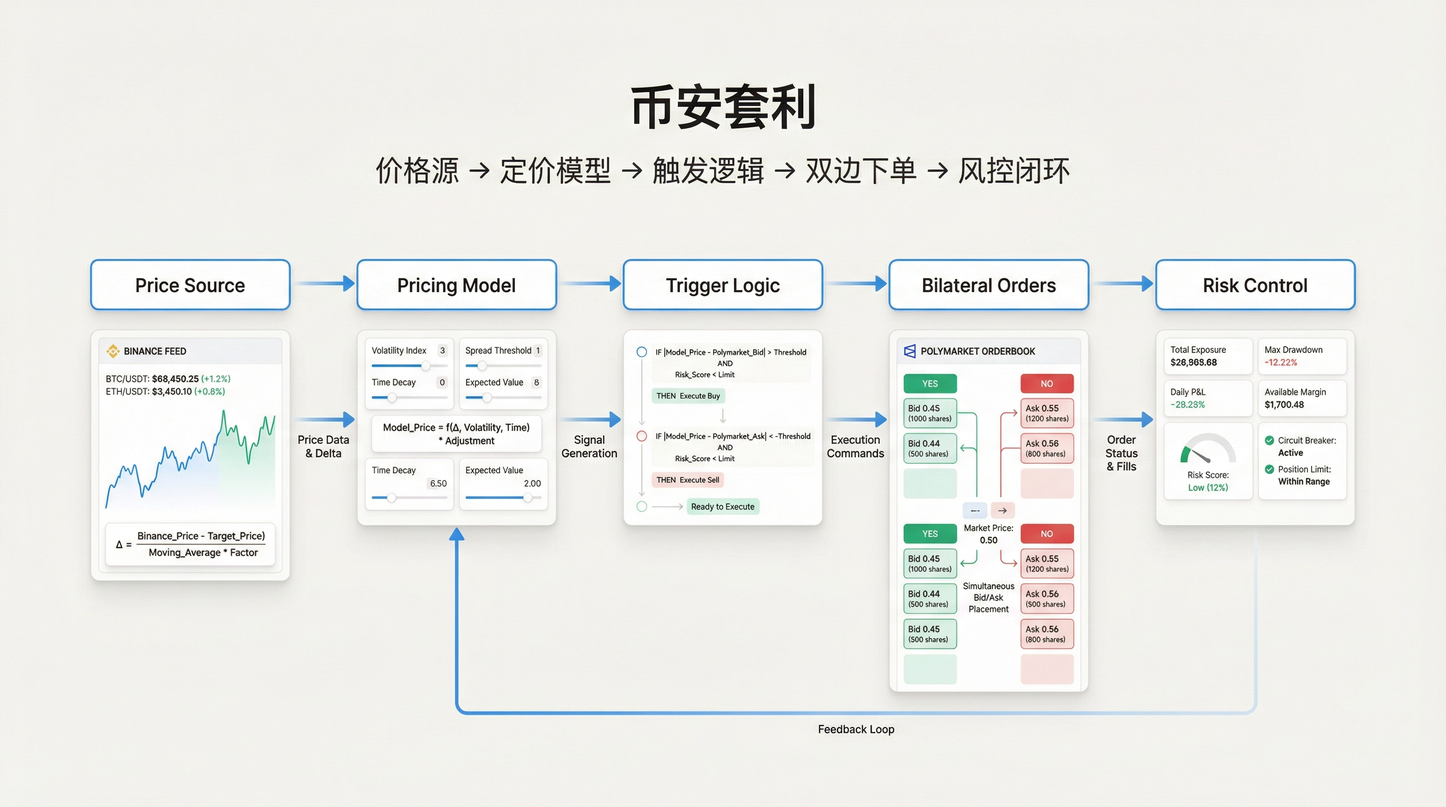
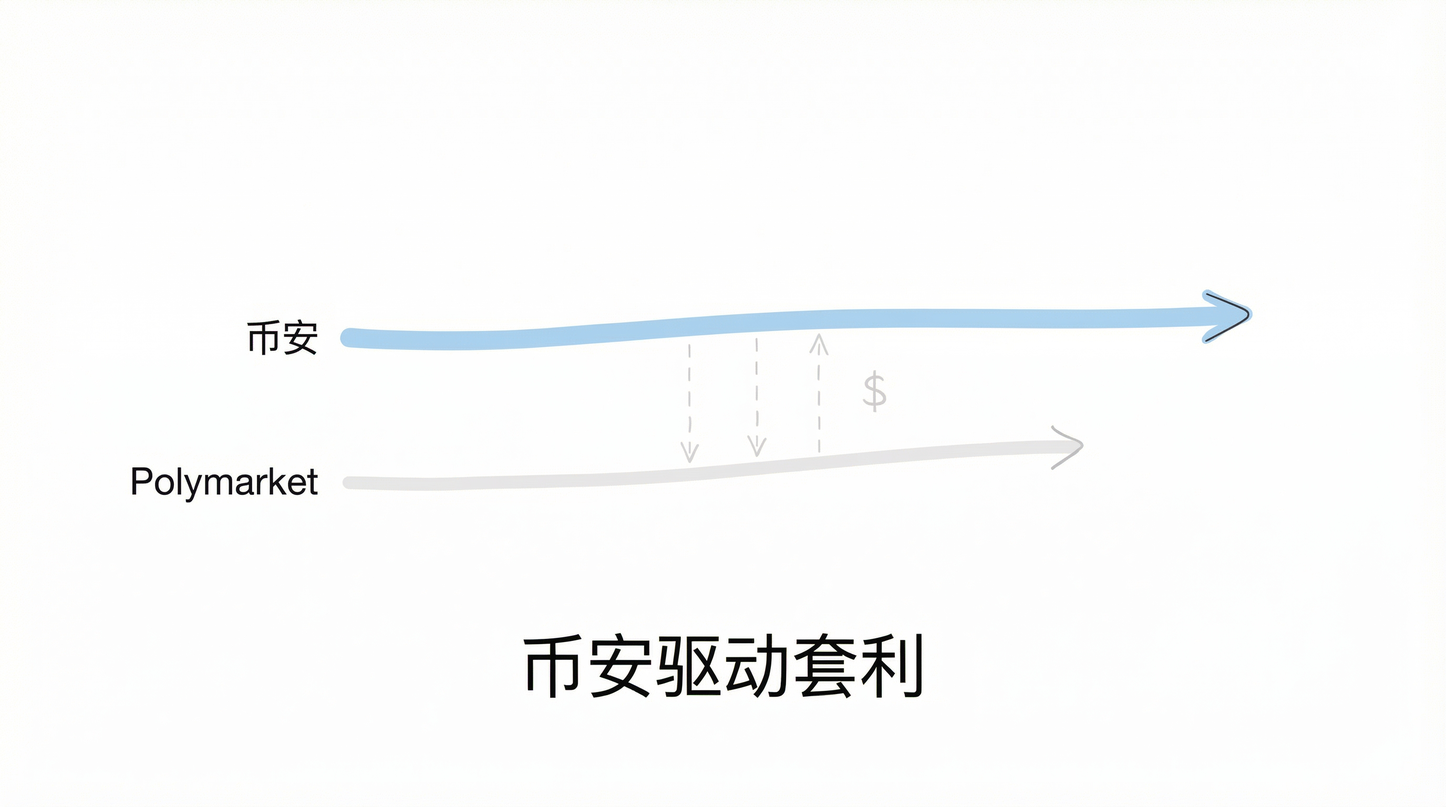
refactor(cover-image): 支持VuePress项目结构
- 更新封面图生成技能以支持VuePress分离式存储
- 封面图：docs/.vuepress/public/covers/{category}/
- 提示词：docs/{category}/{topic}/covers/{slug}/
- 更新项目规范文档说明自动化配置
- 重新生成binance-arbitrage封面（极简风格）
- .gitignore新增source文件忽略规则

Changed region(s): [[0.0625, 0.3125, 0.9375, 0.9062], [0.25, 0.1875, 0.75, 0.25], [0.4375, 0.0938, 0.5625, 0.1562]]

diff --git a/docs/web3/polymarket/covers/polymarket-binance-arbitrage/prompt.md b/docs/web3/polymarket/covers/polymarket-binance-arbitrage/prompt.md
@@ -1,25 +1,83 @@
-# Cover Image Prompt
+# Content Context
+Article title: Polymarket 量化交易实战（九）：币安价格驱动的套利策略
+Content summary: 利用币安和 Polymarket 之间的价格发现速度差进行套利。核心不是"预测方向"，而是利用两者的吸收速度差。包括价格源稳定性、线性映射定价模型、触发逻辑、双边结构理解和三重风控体系。
+Keywords: 套利、币安、速度差、价格传导、双边平衡、风控、预测市场、量化交易
 
-## Article
-Title: Polymarket 量化交易实战（十一）：币安价格驱动的套利策略
-
-## Design
-Type: framework
+# Visual Design
+Cover theme: 速度差套利
+Type: minimal
 Style: notion
-Aspect: 16:9
+Text level: title-only
+Mood: subtle
+Aspect ratio: 16:9
+Language: zh
 
-## Visual
-Title: 币安套利
-Subtitle: 价格源 -> 定价模型 -> 触发逻辑 -> 双边下单 -> 风控闭环
+# Text Elements
+Title: 币安驱动套利
 
-Main concept: Cross-market arbitrage using Binance price as signal for Polymarket
-- Notion SaaS workspace aesthetic
-- Five-step pipeline: Price Source -> Pricing Model -> Trigger Logic -> Bilateral Orders -> Risk Control
-- Left panel: Binance price feed visualization, delta mapping formula
-- Right panel: Polymarket orderbook, Yes/No bilateral structure
-- Connection arrows showing information flow between two markets
+# Mood Application
+Use low contrast, muted colors, light visual weight, calm aesthetic. Professional and technical feel without being heavy or aggressive.
 
-Color scheme:
-- Primary: #2383E2 (Notion Blue)
-- Background: #F7F7F5
-- Accent: #0F7B6C (Success Green)
+# Composition
+Type composition (minimal):
+- Single focal element representing the core concept
+- Generous whitespace (60%+ of the canvas)
+- Essential shapes only, no decorative clutter
+- Clean, zen-like simplicity
+
+Visual composition:
+- Main visual: Two parallel horizontal flows/streams at different speeds
+  - Top flow (fast): Represents Binance - thicker line, faster implied motion, leading position
+  - Bottom flow (slow): Represents Polymarket - thinner line, slower motion, lagging position
+  - Between them: A simple vertical dashed line or subtle arrows showing arbitrage opportunity in the gap
+- Layout: Horizontally centered, using the full width advantage of 16:9 aspect ratio. Elements positioned in the middle third of the canvas, massive whitespace above and below
+- Decorative: Minimal - only essential labels like "币安" and "Polymarket" in small, clean sans-serif font. Possibly a small dollar/price icon ($) to hint at financial context
+
+Color scheme (notion style + subtle mood):
+- Primary: Black (#1A1A1A) for main outlines and text
+- Background: Pure White (#FFFFFF) for maximum cleanliness
+- Accent: Pastel Blue (#A8D4F0) for the fast flow (Binance), very muted
+- Secondary: Light Gray (#E8E8E8) for the slow flow (Polymarket)
+- All colors desaturated and low-contrast to match subtle mood
+
+Type notes (minimal):
+- Extreme simplicity, single concept focus
+- Whitespace as a design element, not empty space
+- Hand-drawn wobble effect on lines (notion style) to add human warmth without complexity
+- No gradients, no shadows, no textures
+
+Style notes (notion):
+- Clean, minimalist hand-drawn line art with slight wobble
+- Simple doodle-style with intentional imperfection
+- Single-weight line work throughout
+- Pastel accents used sparingly, only on the fast flow to differentiate
+- Maximum whitespace with single concept focus
+- Notion-like aesthetic: thoughtful, organized, calm
+
+# Specific Visual Elements
+
+1. **Title Text**: "币安驱动套利" positioned at bottom or top, using clean sans-serif font (like Inter or similar), black color, medium weight
+
+2. **Flow Visualization**:
+   - Upper flow (Binance): Slightly thicker hand-drawn line with pastel blue fill, arrow pointing right, labeled "币安" on the left
+   - Lower flow (Polymarket): Thinner hand-drawn line with light gray fill, arrow pointing right but visually "behind" the upper flow, labeled "Polymarket" on the left
+   - Gap indicator: Subtle vertical dashed line or small arrows in the space between the two flows, representing the arbitrage window
+
+3. **Composition Balance**:
+   - Flows occupy only central 30-40% of canvas height
+   - Top and bottom margins: 30%+ each
+   - Left and right margins: 10-15% each
+   - Title text: 5-8% of canvas height, positioned cleanly without touching flows
+
+4. **Hand-drawn Quality** (notion style):
+   - Lines should have slight organic wobble, not perfectly straight
+   - Arrows should be simple, hand-drawn style
+   - Labels in clean but slightly irregular hand-lettering (or clean sans-serif if hand-lettering is too complex)
+
+# Avoid
+- Complex illustrations with multiple elements
+- Bright or saturated colors (conflicts with subtle mood)
+- Dense information or multiple data points
+- Any 3D effects, gradients, or shadows
+- Literal representations of trading interfaces or charts
+- Overlapping or crowded elements

diff --git a/CLAUDE.md b/CLAUDE.md
@@ -60,8 +60,11 @@ cover: covers/api-guide/cover.png
 |------|------|
 | `docs/.vuepress/public/covers/{category}/{name}.png` | 网站引用（必须） |
 | `docs/{category}/{topic}/covers/{slug}/prompt.md` | 生成提示词（保留，方便重新生成） |
+| `docs/{category}/{topic}/covers/{slug}/source-*.md` | 源文件副本（可选） |
 
-注意：封面图只在 public 目录保留一份，原目录只保留 prompt.md。
+**自动化**：baoyu-cover-image 技能已配置为 VuePress 模式（`default_output_dir: vuepress`），会自动将文件放到正确位置。
+
+注意：封面图只在 public 目录保留一份，原目录只保留 prompt.md 和源文件。
 
 ## 文章 Frontmatter 规范
 
